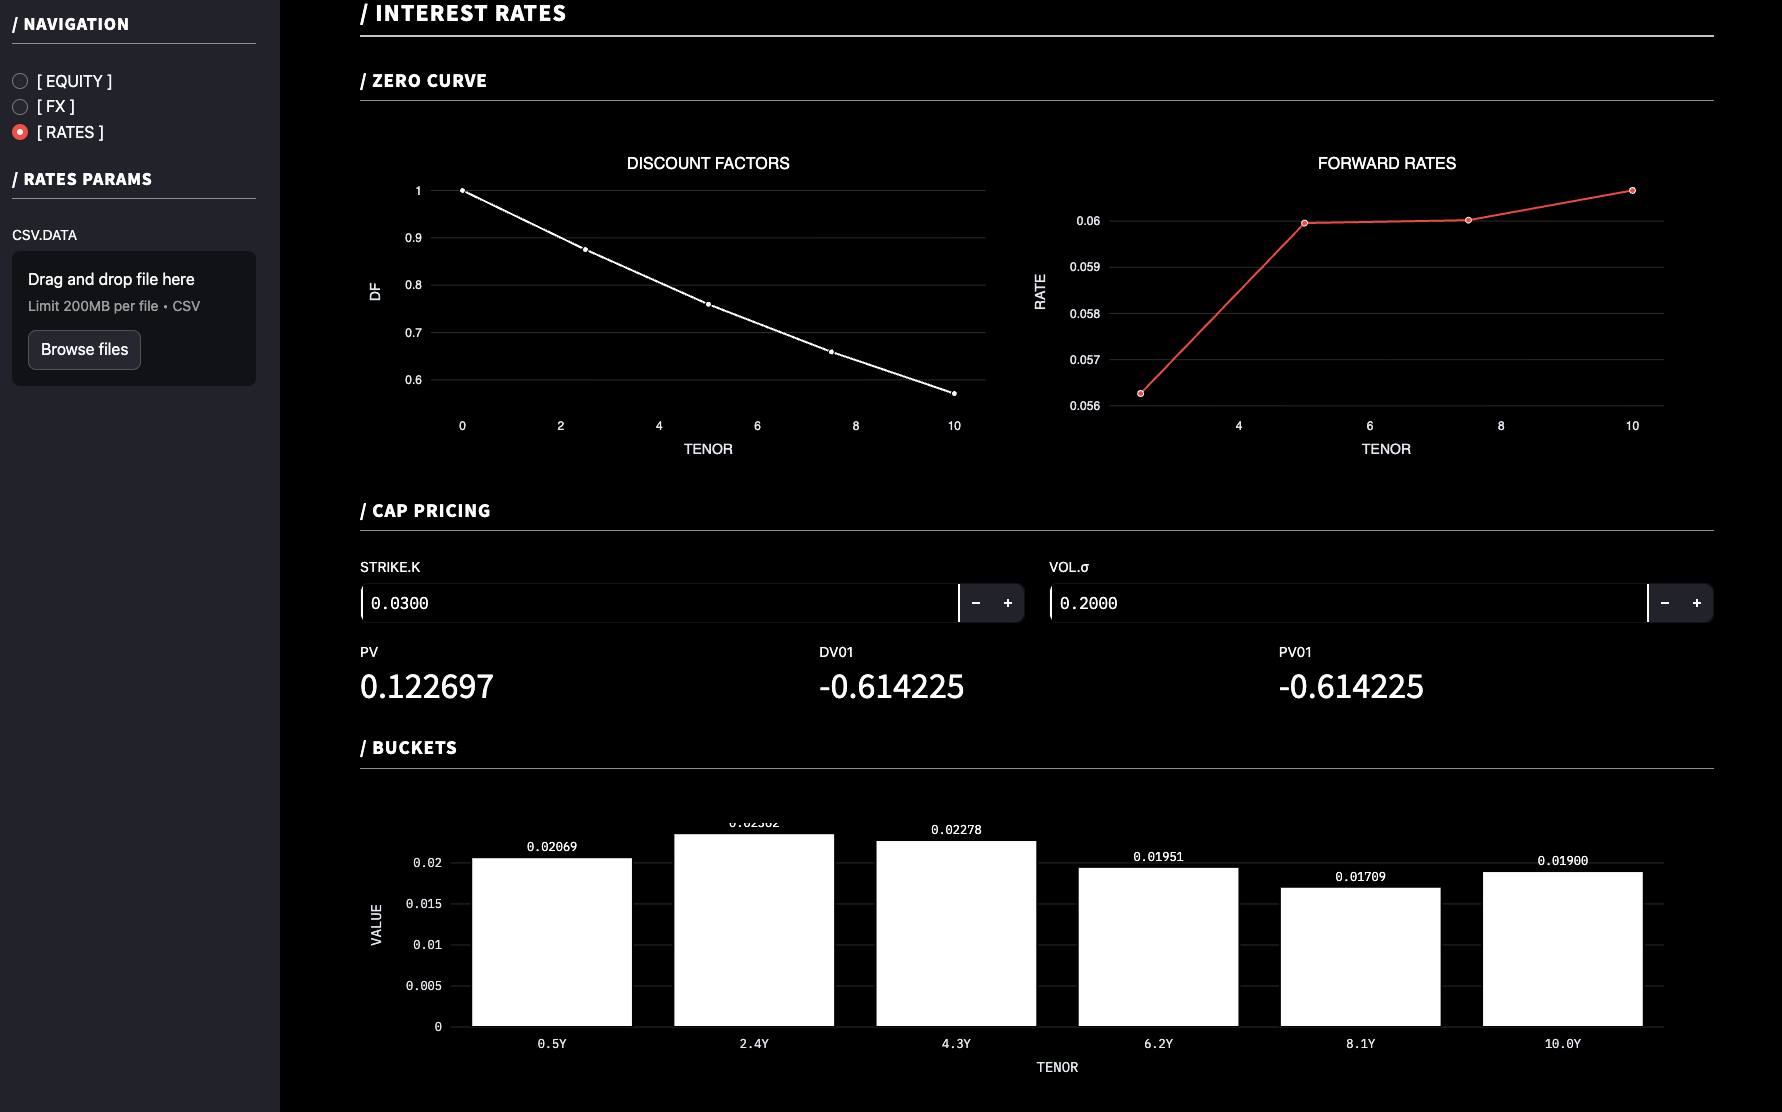
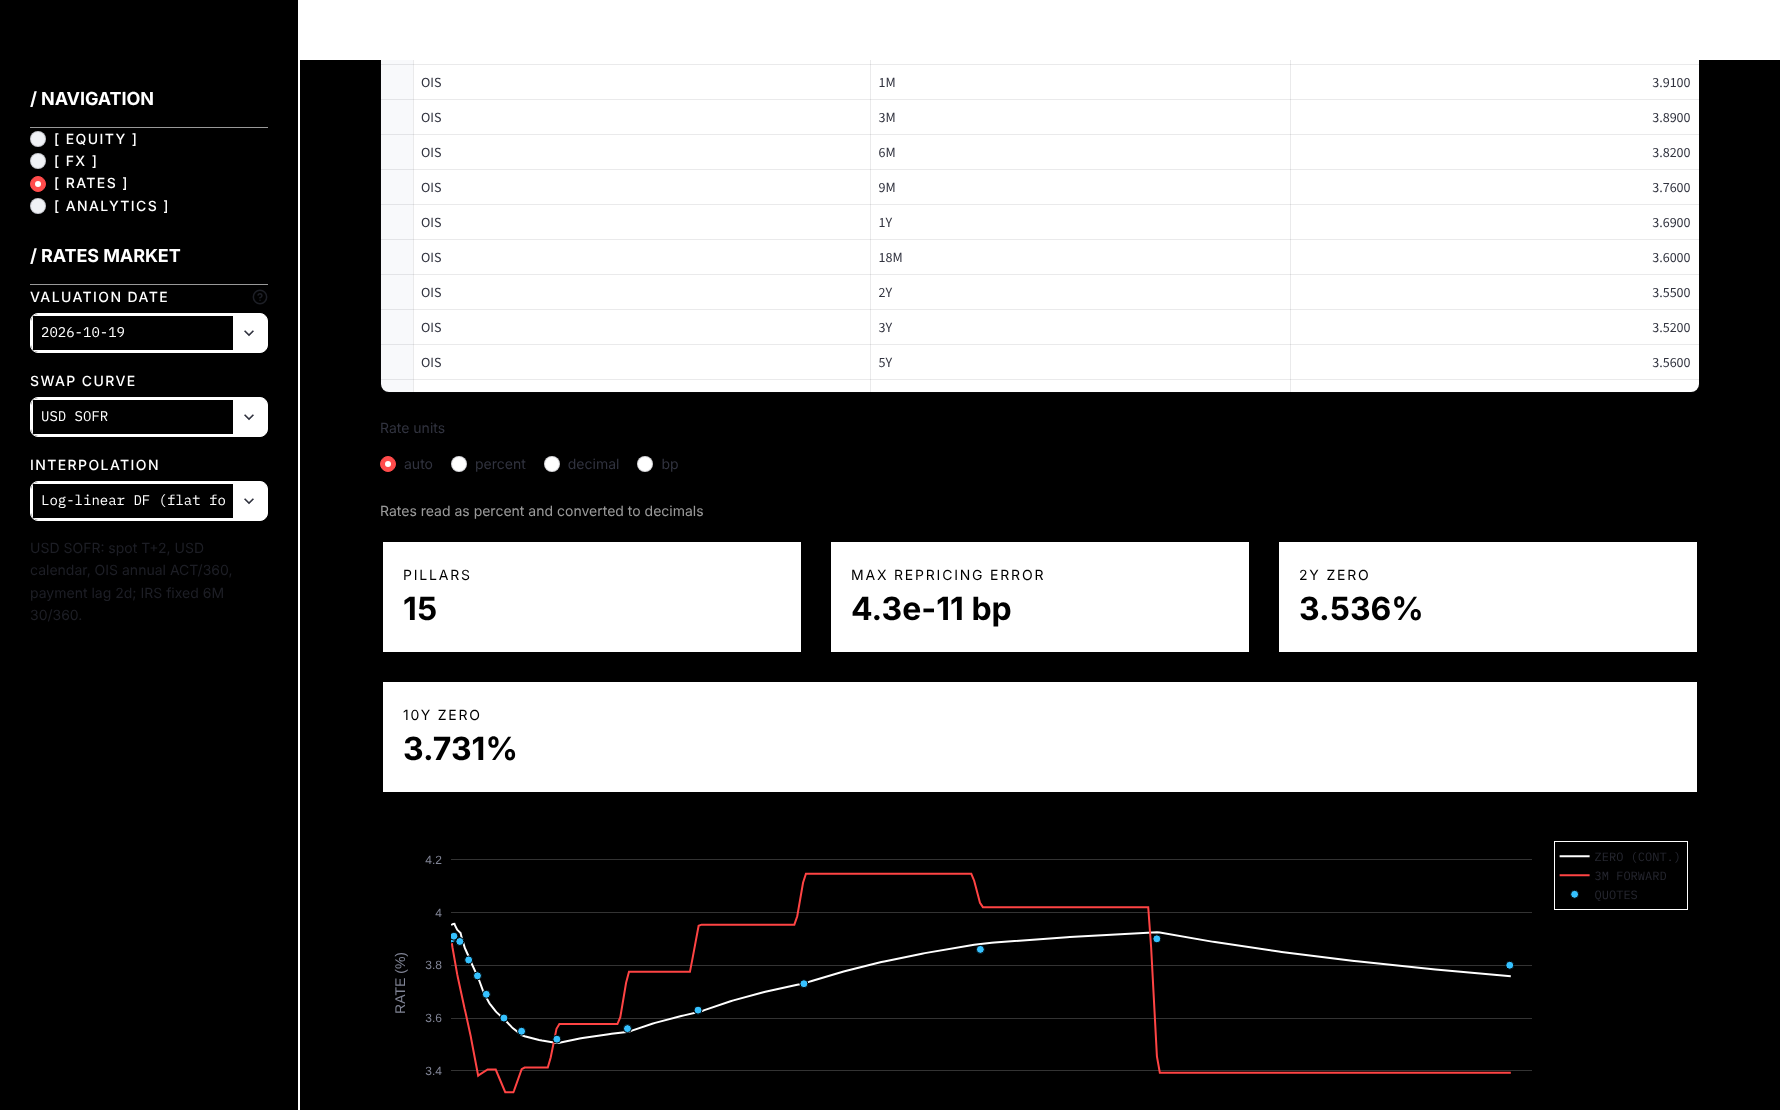
feat(rates-ui): five-tab Rates page on the QuantLib-checked engine
Wires CURVE, SWAP, CAP-FLOOR, BONDS and SCENARIOS into the app, updates
the README rates section and screenshots, and lints the new modules in
CI.

Claude-Session: https://claude.ai/code/session_01WEaKaAg534GVfXEJXdLnM4

diff --git a/src/derivx/ui/streamlit_app.py b/src/derivx/ui/streamlit_app.py
@@ -2,23 +2,19 @@ from __future__ import annotations
 
 import datetime as dt
 from io import BytesIO
-from pathlib import Path
 from typing import Dict, Iterable, List, Mapping
 
 import numpy as np
 import pandas as pd
 import plotly.graph_objects as go
 import streamlit as st
-from plotly.subplots import make_subplots
 from scipy.interpolate import CubicSpline
 
 from derivx.calibration.production import CalibratedSlice, calibrate_with_constraints
 from derivx.core.bs import bs_price_greeks, put_call_parity_residual
 from derivx.data.market_data import apply_liquidity_filters, compute_moneyness, fetch_option_chain
 from derivx.models.comparison import compare_models
-from derivx.rates.black_ir import price_cap_floor
-from derivx.rates.term_structure import ZeroCurve, build_zero_curve
-from derivx.risk.metrics import scen_shift_curve
+from derivx.ui import rates_bonds, rates_capfloor, rates_curve, rates_scenarios, rates_swap
 from derivx.ui.plot_limits import GUARD_AVAILABLE, axis_limits, bound_axes, bound_scene, mount_zoom_guard
 from derivx.ui.theme import PLOTLY_2D_CONFIG
 from derivx.validation.backtest import walk_forward_test
@@ -154,7 +150,6 @@ mode = st.sidebar.radio(
 )
 mode = mode.replace("[", "").replace("]", "").strip()  # Extract mode name
 
-DATA_DIR = Path(__file__).resolve().parents[3] / "data" / "examples"
 DEFAULT_CAMERA = dict(eye=dict(x=1.6, y=1.6, z=1.2))
 # Zoom and pan are bounded by derivx.ui.plot_limits. Wheel zoom (pinch or
 # Ctrl/Cmd + wheel) and 3D pan need its in-page guard, so both are off without
@@ -1099,150 +1094,23 @@ if mode in ("EQUITY", "FX"):
 
 elif mode == "RATES":
     st.markdown("## / INTEREST RATES")
-    
-    accent_color = "#FF4444"
-    
-    # Sidebar inputs
-    st.sidebar.markdown("### / RATES PARAMS")
-    uploaded = st.sidebar.file_uploader("CSV.DATA", type=["csv"])
-    if uploaded is not None:
-        df_rates = pd.read_csv(uploaded)
+    tabs = st.tabs(["/ CURVE", "/ SWAP", "/ CAP-FLOOR", "/ BONDS", "/ SCENARIOS"])
+    with tabs[0]:
+        market = rates_curve.render()
+    if market is None:
+        for tab in tabs[1:]:
+            with tab:
+                st.info("Fix the quotes on the CURVE tab to price instruments.")
     else:
-        df_rates = pd.read_csv(DATA_DIR / "rates_quotes.csv")
-    quotes = {row["tenor"]: float(row["rate"]) for _, row in df_rates.iterrows()}
-
-    curve = build_zero_curve(quotes)
-    
-    # Curve visualization - stark monochrome
-    st.markdown("### / ZERO CURVE")
-    fig_curve = make_subplots(
-        rows=1, cols=2,
-        subplot_titles=("DISCOUNT FACTORS", "FORWARD RATES"),
-        specs=[[{"type": "scatter"}, {"type": "scatter"}]]
-    )
-    
-    # Discount factors
-    fig_curve.add_trace(go.Scatter(
-        x=curve.ts, y=curve.dfs,
-        mode='lines+markers',
-        name='DF',
-        line=dict(color='#FFFFFF', width=2),
-        marker=dict(size=6, color='#FFFFFF', line=dict(width=1, color='#000000')),
-    ), row=1, col=1)
-    
-    # Forward rates
-    fwd_rates = [curve.fwd_rate(max(0, t-0.5), t) for t in curve.ts if t > 0]
-    fig_curve.add_trace(go.Scatter(
-        x=curve.ts[curve.ts > 0], y=fwd_rates,
-        mode='lines+markers',
-        name='FWD',
-        line=dict(color=accent_color, width=2),
-        marker=dict(size=6, color=accent_color, line=dict(width=1, color='#FFFFFF')),
-    ), row=1, col=2)
-    
-    fig_curve.update_xaxes(title_text="TENOR", gridcolor='#333333', row=1, col=1)
-    fig_curve.update_xaxes(title_text="TENOR", gridcolor='#333333', row=1, col=2)
-    fig_curve.update_yaxes(title_text="DF", gridcolor='#333333', row=1, col=1)
-    fig_curve.update_yaxes(title_text="RATE", gridcolor='#333333', row=1, col=2)
-    
-    bound_axes(
-        fig_curve,
-        xaxis=axis_limits(curve.ts, floor=0.0),
-        xaxis2=axis_limits(curve.ts[curve.ts > 0], floor=0.0),
-        yaxis=axis_limits(curve.dfs, floor=0.0),
-        yaxis2=axis_limits(fwd_rates),
-    )
-    fig_curve.update_layout(
-        height=350,
-        paper_bgcolor='#000000',
-        plot_bgcolor='#000000',
-        font=dict(color='#FFFFFF', family='Helvetica'),
-        showlegend=False,
-        margin=dict(l=50, r=50, t=50, b=50),
-    )
-    st.plotly_chart(fig_curve, width="stretch", config=PLOTLY_2D_CONFIG)
-
-    # Cap/Floor pricing
-    st.markdown("### / CAP PRICING")
-    col1, col2 = st.columns(2)
-    with col1:
-        K = st.number_input("STRIKE.K", value=0.03, step=0.001, format="%.4f", key="cap_strike")
-    with col2:
-        flat_sigma = st.number_input("VOL.σ", value=0.2, step=0.01, format="%.4f", key="cap_vol")
-    
-    max_t = float(curve.ts.max())
-    tenors = np.linspace(0.5, max(0.5, max_t), num=6)
-    vol_curve = ZeroCurve(ts=curve.ts, dfs=np.full_like(curve.dfs, flat_sigma))
-    res = price_cap_floor(curve, K, tenors, vol_curve)
-    
-    # Display metrics
-    col1, col2, col3 = st.columns(3)
-    with col1:
-        st.metric("PV", f"{res['PV']:.6f}")
-    with col2:
-        st.metric("DV01", f"{res['DV01']:.6f}")
-    with col3:
-        st.metric("PV01", f"{res['PV01']:.6f}")
-
-    # Buckets bar chart - minimalist
-    st.markdown("### / BUCKETS")
-    bucket_tenors = list(res['buckets'].keys())
-    bucket_values = list(res['buckets'].values())
-    
-    fig_buckets = go.Figure(go.Bar(
-        x=[f"{t:.1f}Y" for t in bucket_tenors],
-        y=bucket_values,
-        text=[f"{v:.5f}" for v in bucket_values],
-        textposition='outside',
-        marker=dict(color='#FFFFFF', line=dict(color='#000000', width=2)),
-    ))
-    fig_buckets.update_layout(
-        yaxis_title="VALUE",
-        xaxis_title="TENOR",
-        paper_bgcolor='#000000',
-        plot_bgcolor='#000000',
-        font=dict(color='#FFFFFF', family='IBM Plex Mono'),
-        height=300,
-        margin=dict(l=50, r=50, t=30, b=50),
-        xaxis=dict(gridcolor='#333333'),
-        yaxis=dict(gridcolor='#333333'),
-    )
-    bound_axes(
-        fig_buckets,
-        xaxis={"min": -0.5, "max": len(bucket_values) - 0.5, "min_span": 1.0},
-        yaxis=axis_limits([0.0, *bucket_values], pad=0.15, floor=min(0.0, *bucket_values)),
-    )
-    st.plotly_chart(fig_buckets, width="stretch", config=PLOTLY_2D_CONFIG)
-
-    # Scenario analysis
-    st.markdown("### / SCENARIOS")
-    col1, col2 = st.columns(2)
-    with col1:
-        par = st.slider("PARALLEL (BP)", -100, 100, 0, key="parallel")
-    with col2:
-        tw = st.slider("TWIST (BP)", -100, 100, 0, key="twist")
-    
-    # Compute scenario PV
-    shocked_curve = scen_shift_curve(curve, parallel_bp=par, twist_bp=tw)
-    res_shock = price_cap_floor(shocked_curve, K, tenors, vol_curve)
-    pnl = res_shock['PV'] - res['PV']
-    
-    # Scenario P&L - stark display
-    st.markdown(f"""
-        <div style='background: #FFFFFF; color: #000000; padding: 2rem; border: 3px solid #000000; margin: 1.5rem 0;'>
-            <div style='text-align: center; font-family: "IBM Plex Mono", monospace;'>
-                <div style='font-size: 0.85rem; letter-spacing: 0.1em; font-weight: 700; margin-bottom: 0.5rem;'>
-                    P&L / SCENARIO
-                </div>
-                <div style='font-size: 3rem; font-weight: 700; color: {"#FF4444" if pnl < 0 else "#000000"}; line-height: 1;'>
-                    {"" if pnl < 0 else "+"}{pnl:.6f}
-                </div>
-                <div style='margin-top: 1rem; font-size: 0.8rem; opacity: 0.7;'>
-                    BASE {res['PV']:.6f} → SHOCKED {res_shock['PV']:.6f}
-                </div>
-            </div>
-        </div>
-    """, unsafe_allow_html=True)
+        positions = []
+        with tabs[1]:
+            positions += rates_swap.render(market)
+        with tabs[2]:
+            positions += rates_capfloor.render(market)
+        with tabs[3]:
+            positions += rates_bonds.render(market)
+        with tabs[4]:
+            rates_scenarios.render(market, positions)
 elif mode == "ANALYTICS":
     st.markdown("## / VOL ANALYTICS LAB")
     tab_labels = [f"/ {label.upper()}" for label in ANALYTICS_TABS]

diff --git a/tests/test_plot_limits.py b/tests/test_plot_limits.py
@@ -101,7 +101,8 @@ def test_every_pricer_chart_is_zoom_bounded(mode):
     at.sidebar.radio[0].set_value(mode).run()
     assert not at.exception
     charts = _charts(at)
-    assert len(charts) == 2
+    # Equity/FX: surface + smile; Rates: every chart across its five tabs.
+    assert len(charts) == 2 if mode != "[ RATES ]" else len(charts) >= 5
     for spec, config in charts:
         _assert_bounded(spec, config)
     if mode != "[ RATES ]":

diff --git a/README.md b/README.md
@@ -13,7 +13,7 @@ The platform highlights:
 
 - **Equity mode** — vectorised Black–Scholes with dividend/carry, Greeks dashboard, 3D price surface, implied-vol and SVI calibration.
 - **FX mode** — Black–Scholes with foreign/domestic rates, SABR calibration and smile diagnostics.
-- **Rates mode** — OIS/IRS bootstrapping, Black cap/floor pricing, PV/DV01/PV01 buckets, and scenario shocks (parallel/twist).
+- **Rates mode** — curve bootstrapping (SOFR/€STR/SONIA OIS, IRS, Treasury bills and par bonds) with QuantLib-matched calendars and conventions, a swap pricer with key-rate PV01 ladder and hedge ratios, caps/floors under Black, shifted Black and Bachelier (normal) vols, a Treasury bond calculator with Z/G/I/asset-swap spreads, and a scenario engine (pivoted twists, butterflies, key-rate and historical shocks) with P&L explain.
 
 The app is built in Streamlit with a production-grade package layout, unit tests, sample data, and CI. Use this repository to demonstrate competency across term structures, volatility modelling, and fixed income risk.
 
@@ -57,8 +57,11 @@ The project targets Python 3.10+ and has been validated on macOS and Ubuntu. The
 │   ├── calibration/           # Production SVI toolkit
 │   ├── validation/            # Walk-forward backtesting utilities
 │   ├── models/                # SABR/local-vol benchmarking
-│   └── surface/ + rates/ + core/ etc.
+│   ├── rates/                 # conventions, curves, quotes, swaps, capfloor, bonds
+│   ├── risk/                  # sensitivities (PV01, key rates, hedges), scenarios
+│   └── surface/ + core/ etc.
 ├── tools/
+│   ├── gen_golden.py          # Regenerate QuantLib golden fixtures (dev only)
 │   ├── download_spy_chains.py # CLI helper to pull Yahoo option chains
 │   └── compute_metrics.py     # Resume metrics generator
 ├── tests/                     # Pytest suite (calibration, data, backtests)
@@ -74,7 +77,7 @@ The project targets Python 3.10+ and has been validated on macOS and Ubuntu. The
 - **Market data ingestion**: yfinance downloader + CLI utility (`tools/download_spy_chains.py`) with liquidity filters, moneyness tagging, and gitignored Parquet cache.
 - **Production calibration**: constrained SVI engine with spline benchmarking, diagnostics, and headless metrics pipeline (`tools/compute_metrics.py`).
 - **Walk-forward + model lab**: regime-aware validation, SVI/SABR/local-vol comparison utilities, and Streamlit Analytics tabs that surface the full pipeline.
-- **Fixed-income/rates stack**: OIS/IRS curve building, cap/floor analytics, PV/DV01/PV01 sensitivities, and scenario shocks (parallel/twist).
+- **Fixed-income/rates stack**: see [Rates analytics](#rates-analytics) below. Every pricer is checked against QuantLib.
 - **Deployment plumbing**: Streamlit UI, GitHub Actions CI, Selenium wake-up workflow, and a README aimed at recruiters/hiring managers.
 
 ---
@@ -84,8 +87,9 @@ The project targets Python 3.10+ and has been validated on macOS and Ubuntu. The
 - **Put–call parity** is checked numerically on every load (residual ~1e-8)
 - **Round-trip price ↔ implied vol** via `vol/implied.py` returns <1e-6 error
 - **SABR calibration** on synthetic data recovers parameters within ±10%
-- **DV01/PV01** analytics match bump-and-revalue within 2 bps
-- Eight targeted unit tests cover the core price/calibration logic
+- **Rates vs QuantLib**: calendars (every date 1990-2080), schedules, curve bootstraps, swaps, caps/floors and bonds are compared with QuantLib through committed golden fixtures (`tests/golden/`, regenerated by `python tools/gen_golden.py`); with the dev extra installed, live randomised QuantLib checks run too
+- **App smoke tests**: every mode and Rates tab is rendered headlessly with Streamlit's AppTest, including chart zoom limits
+- 291 tests in total
 
 Run the suite locally:
 
@@ -94,6 +98,22 @@ pytest tests/ -v
 ```
 
 ---
+
+## Rates analytics
+
+The Rates page has five tabs that share one market (valuation date, swap curve, Treasury curve):
+
+| Tab | What it does | Checked against QuantLib |
+|---|---|---|
+| Curve | Bootstraps deposits, OIS and IRS (USD SOFR, EUR €STR, GBP SONIA conventions) with log-linear, linear-zero or monotone-convex interpolation; shows that every quote reprices; validates units and tenors | Piecewise curves agree to ~1e-8 bp |
+| Swap | PV, par rate, annuity, signed PV01, key-rate PV01 ladder, hedge notionals in benchmark par swaps; forward-start and seasoned swaps | OIS/vanilla swaps to ~1e-15 of notional |
+| Cap/Floor | Caplets on accrual periods with fixing lag; Black, shifted Black and Bachelier vols, vol term structure, ATM strike, premium, vega | Cap/floor engines to ~1e-12 relative |
+| Bonds | Clean/dirty, accrued, yield, durations, convexity, DV01, 32nds, Z/G/I/ASW spreads vs the Treasury and swap curves | FixedRateBond analytics |
+| Scenarios | Parallel, pivoted twist, butterfly, key-rate and historical (FRED Treasury moves) shocks; P&L explain into delta, gamma, vol, carry and residual | Full revaluation |
+
+Risk numbers are signed P&L for a +1bp move in the market quotes, from full curve rebuilds. The framework is single-curve (one curve discounts and projects).
+
+Data: the swap quotes in `data/examples/usd_sofr_ois_example.csv` are illustrative (there is no free SOFR swap feed); `data/examples/ust_par_yield_curve_2026.csv` is the US Treasury daily par yield curve (home.treasury.gov) and `data/examples/historical_curve_shocks.csv` comes from FRED constant-maturity yields (`tools/build_historical_shocks.py`).
 
 ## Streamlit UI highlights
 
